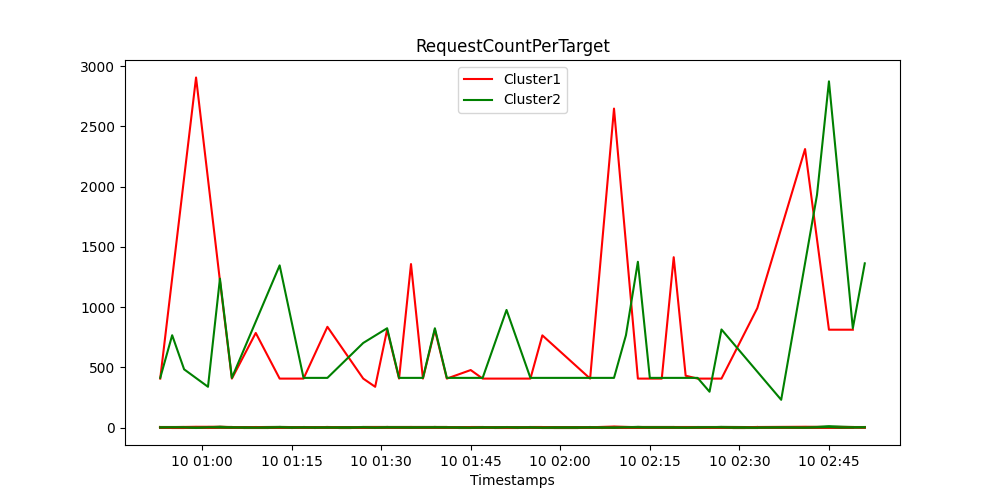
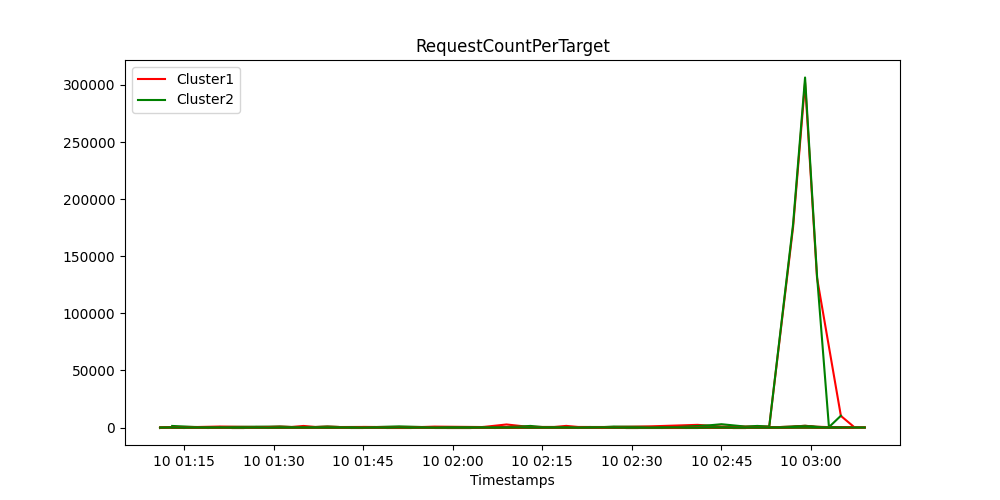
added scenario code

diff --git a/TP1/main.py b/TP1/main.py
@@ -1,5 +1,6 @@
-from datetime import datetime
+from datetime import datetime 
 from datetime import timedelta
+import time
 import requests
 import boto3
 import pandas as pd
@@ -21,17 +22,19 @@ def consumeGETRequestSync(cluster):
 
 def runScenario1():
     #scenario 1
-    #for i in range(1000):
-    consumeGETRequestSync(cluster=1)
-    consumeGETRequestSync(cluster=2)
+    for _ in range(1000):
+        consumeGETRequestSync(cluster=1)
+        consumeGETRequestSync(cluster=2)
 
 def runScenario2():
     #scenario 2
-    #for i in range(500):
-        #time.sleep(60)
-    #for i in range(1000):
-    consumeGETRequestSync(cluster=1)
-    consumeGETRequestSync(cluster=2)
+    for _ in range(500):
+        consumeGETRequestSync(cluster=1)
+        consumeGETRequestSync(cluster=2)
+    time.sleep(60)
+    for _ in range(1000):
+        consumeGETRequestSync(cluster=1)
+        consumeGETRequestSync(cluster=2)
 
 #get load balancer 
 def getDimensionInfos(type_dimension):
